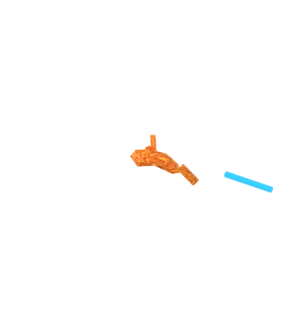
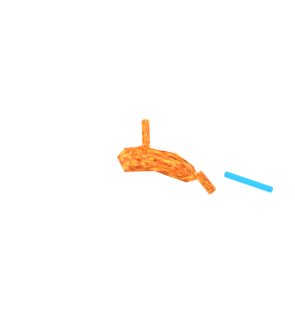
Increase furnace flow and deployed shield volume

Changed region(s): [[0.3966, 0.3692, 0.7322, 0.6154]]

diff --git a/space-battleship/assets/ui/reactor/b01/generate_reactor_devices.py b/space-battleship/assets/ui/reactor/b01/generate_reactor_devices.py
@@ -102,7 +102,7 @@ def molten_material():
     links.new(noise.outputs["Fac"],colors.inputs["Fac"])
     links.new(colors.outputs["Color"],bsdf.inputs["Base Color"])
     links.new(colors.outputs["Color"],bsdf.inputs["Emission Color"])
-    bsdf.inputs["Emission Strength"].default_value=.75
+    bsdf.inputs["Emission Strength"].default_value=1.10
     relief=nodes.new("ShaderNodeBump")
     relief.inputs["Strength"].default_value=.28
     relief.inputs["Distance"].default_value=.5
@@ -124,7 +124,7 @@ def setup():
         "contact": material("contact shadow iron", (.018,.033,.042), .08,.85),
         "blue": material("unpowered shield glass", (.006,.045,.11), .25,.16,.035),
         "blue_lit": material("shield field filaments", (.025,.40,.85), .05,.2,1.3),
-        "blue_field": material("deployed field glass", (.025,.28,.52), .12,.12,.30,.38),
+        "blue_field": material("deployed field glass", (.035,.34,.58), .12,.12,.45,.58),
         "orange": material("furnace liner", (.24,.075,.022), .18,.53,.035),
         "slag": material("unpowered cooled charge", (.16,.075,.038), .12,.63,.012),
         "orange_lit": molten_material(),
@@ -270,8 +270,11 @@ def field_canopy(mat):
         y=172+94*math.sin(theta)
         for j in range(columns+1):
             span=j/columns
-            x=1050+(79+49*span)*bow
-            z=54+27*math.sin(math.pi*span)*bow
+            # The inner part curves over the emitter face; the front shoes
+            # occlude it. This gives the deployed field a readable volume at
+            # the actual page scale, rather than only a bright outer rim.
+            x=1050+(53+75*span)*bow
+            z=54+35*math.sin(math.pi*span)*bow
             verts.append((x,-y,z))
     faces=[]
     for i in range(rows):
@@ -618,41 +621,41 @@ def smelting(spec,m):
         cube("furnace jacket service panel",x,531,25,84,5,62,m["dark"],4)
         for y in (508,525,542,559):
             cube("furnace jacket louver",x,y,16,4,4,67,m["silver"],1)
-    cube("molten aperture",179,532,112,90,5,71,m["black"],6)
-    cube("firebrick throat",179,536,100,76,6,78,m["orange"],5)
-    cube("recessed tap well",179,541,88,63,6,84,m["black"],6)
-    cast_plate("refractory catch basin",[(136,552),(141,522),(160,510),
-               (196,511),(219,528),(223,554),(210,570),(149,570)],86,4,m["dark"],3)
+    cube("molten aperture",179,532,150,114,5,71,m["black"],6)
+    cube("firebrick throat",179,536,138,100,6,78,m["orange"],5)
+    cube("recessed tap well",179,541,126,87,6,84,m["black"],6)
+    cast_plate("refractory catch basin",[(119,557),(126,519),(153,503),
+               (207,504),(237,525),(242,559),(221,579),(135,578)],86,4,m["dark"],3)
     # The charge is collected in a broad recessed vessel.  Its exposed liquid
     # surface is much wider than the feed stream, and the dark raised shore
     # gives it a visible wall instead of letting the orange read as tubing.
-    cast_plate("cold catch floor",[(143,542),(148,528),(163,523),(190,524),
-               (208,536),(214,552),(204,561),(177,556),(153,558)],91,3,m["black"],2)
-    molten_bath("molten collection bath",[(151,542),(157,534),(172,531),
-                (190,533),(202,542),(206,551),(196,554),(177,548),
-                (159,552)],m["orange_lit"])
-    cast_plate("left refractory bank",[(140,543),(147,526),(159,518),
-               (172,519),(158,535),(153,553),(146,562),(139,554)],98,5,m["slag"],2)
-    cast_plate("right refractory bank",[(187,516),(202,522),(216,537),
-               (219,555),(211,565),(204,557),(204,541),(190,531)],98,5,m["slag"],2)
-    rod("feed pipe jacket",(170,488),(170,520),8,105,m["steel"],16)
-    disc("feed nozzle dark mouth",170,521,8,3,109,m["black"],24)
-    rod("molten fall",(170,522),(171,536),2.6,108,m["orange_lit"],12)
-    disc("molten impact crown",171,537,7,2,100,m["orange_lit"],20)
-    cast_plate("front refractory sill",[(144,559),(157,561),(177,558),
-               (199,563),(210,569),(209,573),(183,568),(159,569),
-               (144,565)],95,4,m["dark"],2)
-    rod("molten tap spill",(199,552),(216,567),4.2,109,m["orange_lit"],12)
+    cast_plate("cold catch floor",[(129,546),(137,527),(157,521),(202,521),
+               (226,537),(232,557),(217,568),(177,563),(140,564)],91,3,m["black"],2)
+    molten_bath("molten collection bath",[(137,545),(145,534),(164,529),
+                (201,531),(219,542),(225,555),(211,561),(177,554),
+                (145,560)],m["orange_lit"])
+    cast_plate("left refractory bank",[(122,547),(132,522),(151,513),
+               (166,515),(146,538),(139,559),(129,569),(120,558)],98,5,m["slag"],2)
+    cast_plate("right refractory bank",[(204,513),(221,521),(239,540),
+               (242,562),(229,573),(221,563),(221,541),(207,528)],98,5,m["slag"],2)
+    rod("feed pipe jacket",(162,463),(162,505),9,105,m["steel"],16)
+    disc("feed nozzle dark mouth",162,506,9,3,109,m["black"],24)
+    rod("molten fall",(162,507),(163,537),3.8,108,m["orange_lit"],12)
+    disc("molten impact crown",163,539,8,2,100,m["orange_lit"],20)
+    cast_plate("front refractory sill",[(127,566),(151,569),(177,565),
+               (215,570),(232,577),(228,581),(183,575),(146,577),
+               (126,573)],95,4,m["dark"],2)
+    rod("molten tap spill",(218,556),(234,574),4.4,109,m["orange_lit"],12)
     for sx in (-1,1):
-        cube("refractory throat jamb",179+sx*53,536,14,87,13,86,m["silver"],3)
-        cube("jamb black heat slot",179+sx*53,535,4,66,3,94,m["dark"],1)
-    for yy in (500,572):
-        cube("cast refractory course",179,yy,110,7,8,88,m["steel"],2)
+        cube("refractory throat jamb",179+sx*72,536,13,108,13,86,m["silver"],3)
+        cube("jamb black heat slot",179+sx*72,535,4,84,3,94,m["dark"],1)
+    for yy in (486,583):
+        cube("cast refractory course",179,yy,150,7,8,88,m["steel"],2)
     for y in (510,523,547,560):
-        cube("refractory courses",179,y,102,2,2,83,m["brass"],1)
+        cube("refractory courses",179,y,136,2,2,83,m["brass"],1)
     corner_fasteners("heat jacket",177,517,182,176,64,m)
-    cube("throat crown",179,487,136,10,10,83,m["silver"],3)
-    cube("throat sill",179,580,136,9,9,83,m["brass"],3)
+    cube("throat crown",179,480,166,10,10,83,m["silver"],3)
+    cube("throat sill",179,587,166,9,9,83,m["brass"],3)
     rod("exhaust riser",(104,487),(104,412),16,36,m["dark"])
     rod("exhaust ferrule",(104,419),(104,405),19,39,m["silver"])
     rod("molten delivery",(196,569),(282,617),13,39,m["dark"])
